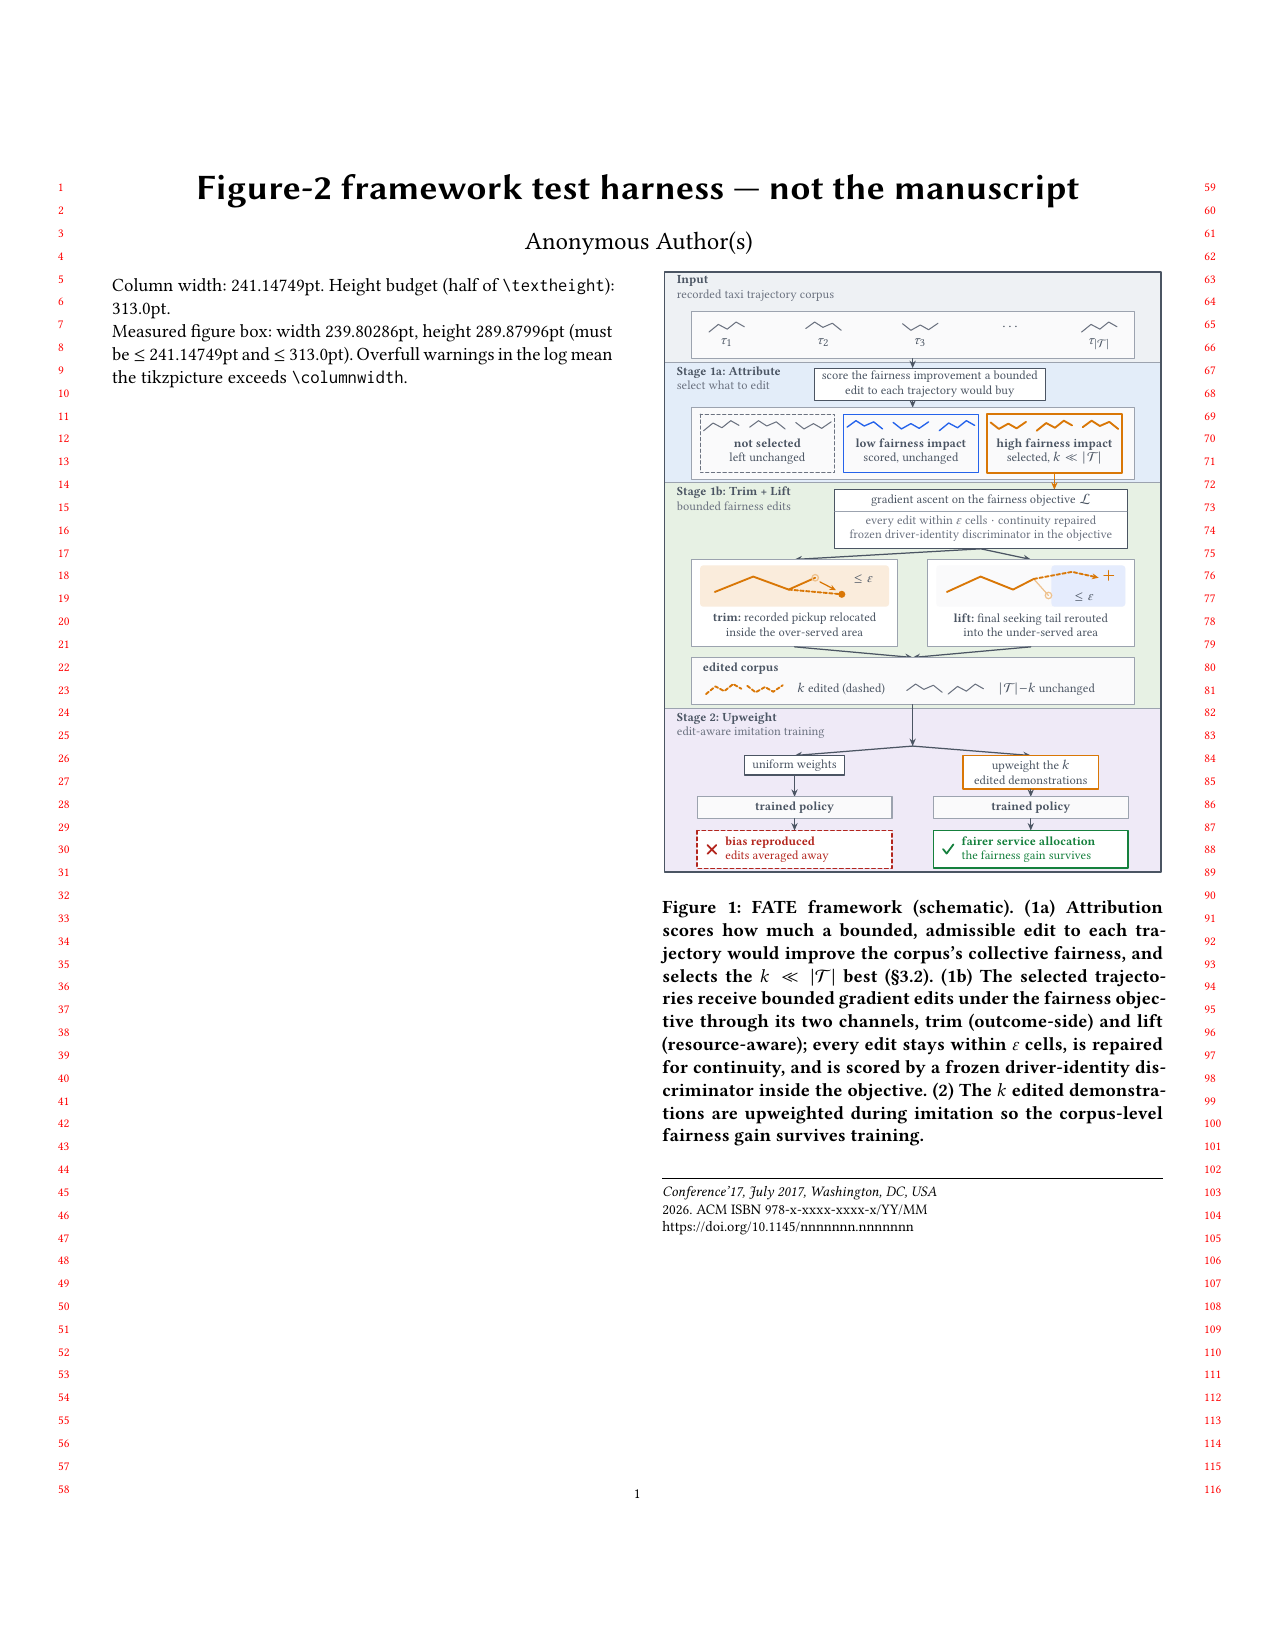
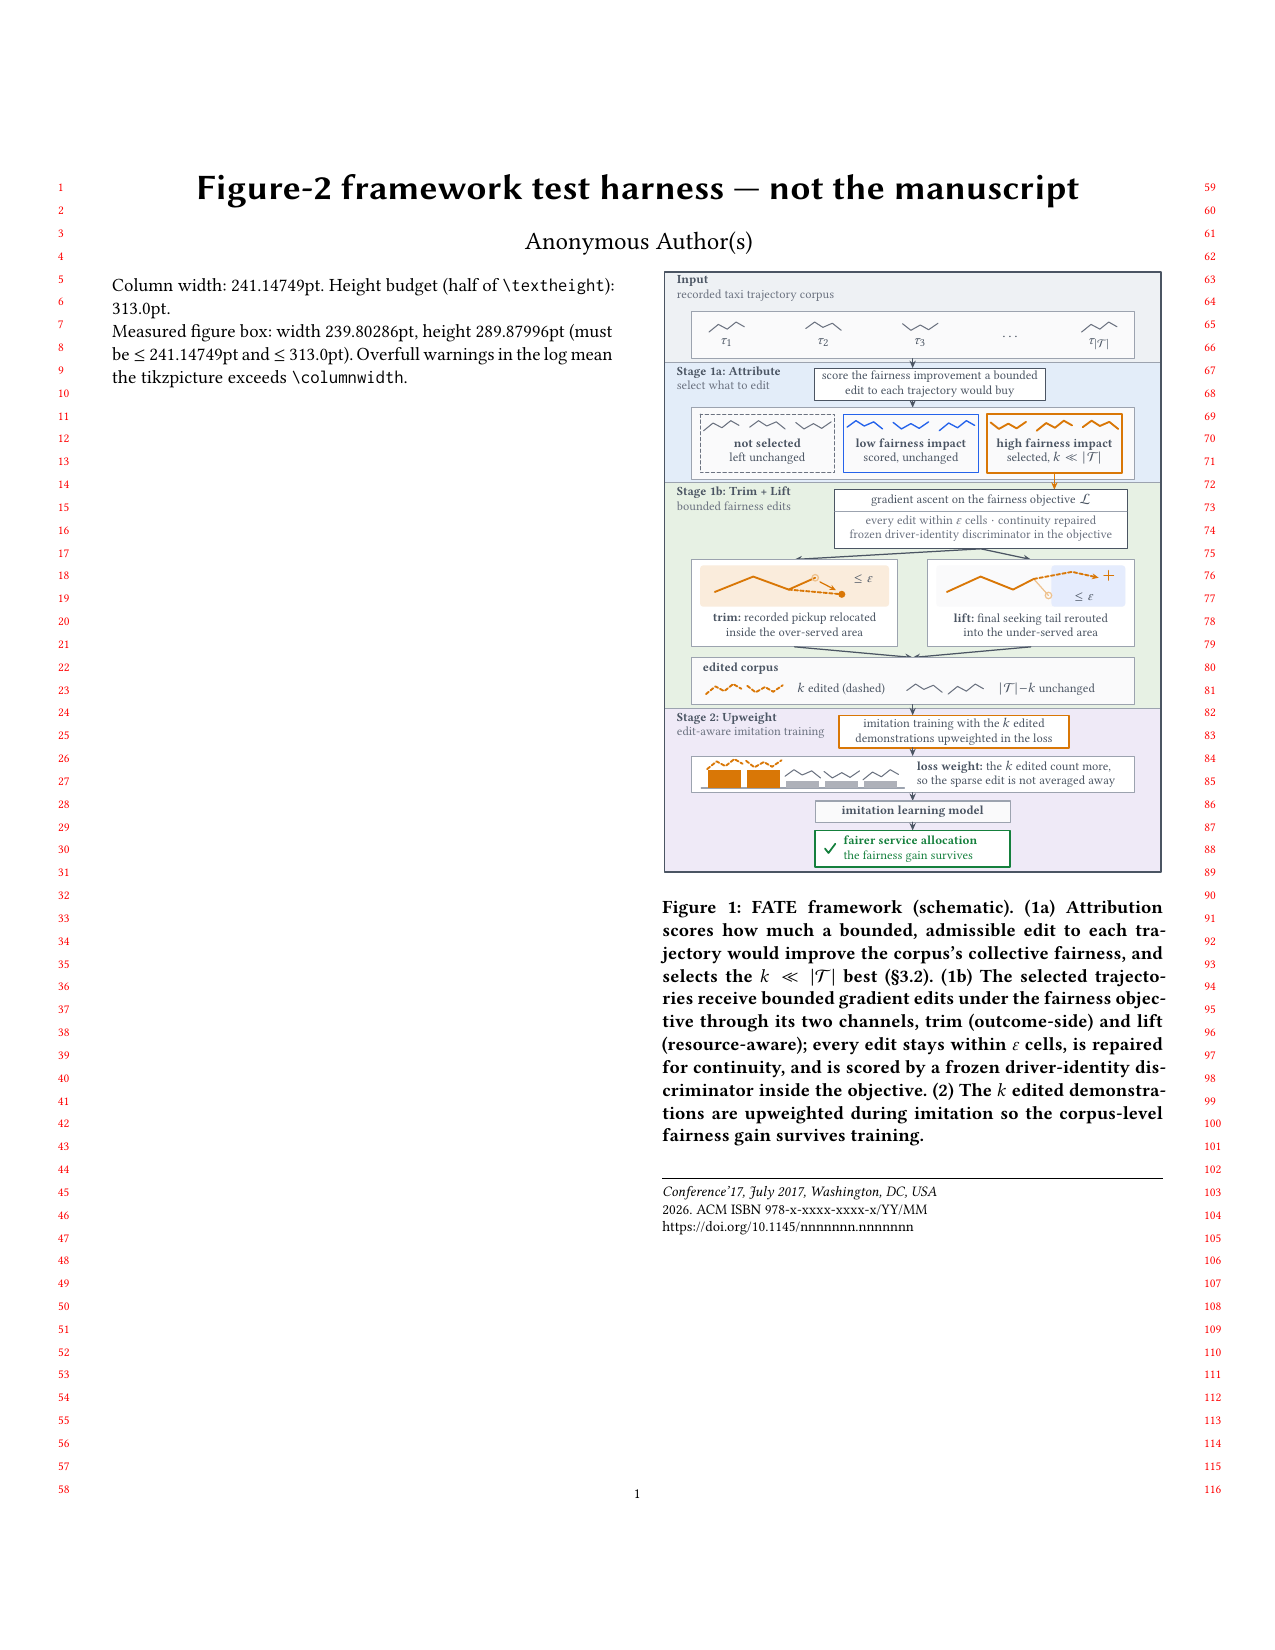
paper: Figure-2 Stage-2 redesign (other session) + Robert's read-aloud edits + two staleness repairs I found while verifying
Committing on Robert's request: his own edits, and the Figure-2 work from the
parallel session. Figure-1's changes were already committed by its own session
at 5c49ecc, so nothing of its was pending — but that commit left a stale
\Description behind, repaired here (below).

ROBERT'S EDITS
- §2 C3: he found a FOURTH instance of the swallowed-sentence defect I
  introduced at 6d03679's siblings — my discretionary-hyphen comment had eaten
  "Equal service is not the target: a", so C3 rendered as "fairness).business
  district should ...". His fix restores it and drops the % after \textbf{} so
  the line break supplies the lost space. Verified in the PDF: the challenge now
  reads correctly end to end. My detector run is clean again (only "n.s.\ at
  w20" remains, a real abbreviation).
- §4.6: the run-in head is now "The supply channel replicates; the demand
  channel dominates the ratio", replacing "... the ratio tension is an
  accounting artifact". Better for the reason I argued: the old head asserted a
  verdict the paragraph then has to earn, and "artifact" understated the
  paper's own subtler reading, which treats the net-negative as a predicted
  demand-endogeneity finding rather than an accounting quirk.
- §4.6 caveats: "proxies the migrant axis" -> "the migrant axis of Shenzhen",
  which is what ACS foreign-born share actually stands in for.
- §3: the Fig-2 caption comment and the \Description rewritten for the new
  Stage 2 (weight chip, single outcome box).
[…]

Changed region(s): [[0.5506, 0.4327, 0.8871, 0.5255]]

diff --git a/paper/figures/figure-2/framework.tex b/paper/figures/figure-2/framework.tex
@@ -17,9 +17,12 @@
 % operation labels, terminal contrast boxes.
 %
 % GEOMETRY (all in cm; y grows DOWNWARD as negative):
-%   canvas 8.40 x 10.54 cm; MEASURED box (framework-test.tex prints it):
-%   239.80pt wide x 300.69pt tall. Gates: \columnwidth (acmart sigconf) =
-%   241.15pt -> 1.3pt to spare; 0.5\textheight = 313.0pt -> 12.3pt to spare.
+%   canvas 8.40 x 10.16 cm; MEASURED box (framework-test.tex prints it):
+%   239.80pt wide x 289.88pt tall (re-measured 2026-07-25 after the Stage-2
+%   fork removal; the "8.40 x 10.54 / 300.69pt" previously recorded here was
+%   stale from before an earlier canvas shrink). Gates: \columnwidth (acmart
+%   sigconf) = 241.15pt -> 1.3pt to spare; 0.5\textheight = 313.0pt ->
+%   23.1pt to spare.
 %   Keep any edit inside those two numbers, and keep the last line of this
 %   file ending in a comment character (a bare newline would leak an
 %   interword space when the file is \input mid-paragraph).
@@ -49,9 +52,10 @@
 %   over-served area, fwlow!12 = under-served area. Saturated strokes are
 %   objects; that is what keeps the pale under-served tint from being read
 %   as the cobalt "low impact" trajectories one band above.
-%   fwneg/fwpos are used ONLY in the two terminal verdict boxes (the
-%   exemplar's red "Wrong Label!" / green "Correct Label!" pair); the x/check
-%   marks and the border dashing carry the verdict without color.
+%   fwpos is used ONLY in the terminal outcome box (the exemplar's green
+%   "Correct Label!" analogue); the check mark carries the verdict without
+%   color. (fwneg + the xmark pic left with the uniform-weights fork,
+%   removed 2026-07-25 -- see the Stage-2 comment block.)
 %
 % VOCABULARY GUARDS (binding, per the spec's accuracy constraints):
 %   - no "attack" / "perturbation" / "z-score" anywhere;
@@ -72,7 +76,6 @@
 \definecolor{fwbandone}{HTML}{E3EDF9}% stage 1 band
 \definecolor{fwbandtwo}{HTML}{E7F1E4}% stage 2 band
 \definecolor{fwbandthree}{HTML}{EFEAF7}% stage 3 band
-\definecolor{fwneg}{HTML}{B3261E}%     terminal box: bias reproduced
 \definecolor{fwpos}{HTML}{15803D}%     terminal box: fairer allocation
 \begin{tikzpicture}[x=1cm, y=1cm, line cap=round, line join=round,
   font=\scriptsize, text=fwink, inner sep=1.2pt,
@@ -83,9 +86,7 @@
                     -- (0.60,0.03);},
   trajc/.pic={\draw (0,0.14) -- (0.14,0.03) -- (0.30,0.12) -- (0.44,0.04)
                     -- (0.60,0.15);},
-  % ---- terminal verdict marks (drawn, so no extra package is needed) ----
-  xmark/.pic={\draw[line width=0.85pt] (-0.075,-0.075) -- (0.075,0.075)
-                                       (-0.075,0.075) -- (0.075,-0.075);},
+  % ---- terminal verdict mark (drawn, so no extra package is needed) ----
   ckmark/.pic={\draw[line width=0.85pt] (-0.085,0.005) -- (-0.025,-0.070)
                                         -- (0.090,0.085);},
   % ---- trajectory styles (weight + dashing carry the groups) -----------
@@ -119,8 +120,8 @@
   \def\xL{0.45}          % inner left  margin for full-width boxes
   \def\xR{7.95}          % inner right margin for full-width boxes
   \def\spine{4.20}       % centre flow spine
-  \def\bL{2.20}          % left  branch axis (trim / uniform weights)
-  \def\bR{6.20}          % right branch axis (lift / upweighted)
+  \def\bL{2.20}          % left  branch axis (trim panel, Stage 1b)
+  \def\bR{6.20}          % right branch axis (lift panel, Stage 1b)
 
   % =====================================================================
   % Bands + outer canvas (flat fills, exemplar style)
@@ -144,7 +145,7 @@
   \pic[tnone] at (0.75,-1.02) {traja};
   \pic[tnone] at (2.39,-1.02) {trajb};
   \pic[tnone] at (4.03,-1.02) {trajc};
-  \node at (5.85,-0.93) {$\ldots$};
+  \node at (5.85,-1.10) {$\ldots$};
   \pic[tnone] at (7.06,-1.02) {traja};
   \node[anchor=north] at (1.05,-1.08) {$\tau_1$};
   \node[anchor=north] at (2.69,-1.08) {$\tau_2$};
@@ -257,36 +258,51 @@
   % =====================================================================
   % STAGE 2 -- Upweight: the sparse edits must survive training
   % =====================================================================
+  % 2026-07-25 (Robert): the uniform-weights fork (uniform weights ->
+  % trained policy -> bias reproduced) is REMOVED -- it was the experimental
+  % control, not part of the proposed method, so the band now shows only
+  % FATE's own path, centred on the spine. The averaged-away null the red
+  % terminal carried survives as the weight chip's second line, which keeps
+  % the 2026-07-24 caption decision (that clause was dropped from the caption
+  % BECAUSE the figure states it) sound. The freed width pays for the weight
+  % chip: a trim/lift-style visual in which each demonstration stands on a
+  % bar whose height is its loss weight -- edited (dashed amber) demos ride
+  % tall amber bars, unchanged (gray) demos sit on short gray ones. Bar
+  % HEIGHT carries the distinction, so the chip is grayscale-safe, and no
+  % weight symbol is introduced (\S3.4 names none; symbol guard holds).
   \node[ttl] at (0.20,-7.45)
     {\textbf{Stage 2: Upweight}\\
      \textcolor{fwgray}{edit-aware imitation training}};
-  \draw[flow] (\spine,-7.33) -- (\spine,-8.03);
-  \draw[flow] (\spine,-8.03) -- (\bL,-8.19);
-  \draw[flow] (\spine,-8.03) -- (\bR,-8.19);
-  % weighting regimes (the only difference between the two branches)
-  \draw[opbox] (1.35,-8.19) rectangle (3.05,-8.52);
-  \node at (\bL,-8.355) {uniform weights};
-  \draw[opbox, draw=fwsel, line width=0.7pt] (5.05,-8.19) rectangle (7.35,-8.76);
-  \node[align=center] at (\bR,-8.475)
-    {upweight the $k$\\edited demonstrations};
-  \draw[flow] (\bL,-8.52) -- (\bL,-8.89);
-  \draw[flow] (\bR,-8.76) -- (\bR,-8.89);
-  \draw[data] (0.55,-8.89) rectangle (3.85,-9.26);
-  \node at (\bL,-9.075) {\textbf{trained policy}};
-  \draw[data] (4.55,-8.89) rectangle (7.85,-9.26);
-  \node at (\bR,-9.075) {\textbf{trained policy}};
-  \draw[flow] (\bL,-9.26) -- (\bL,-9.46);
-  \draw[flow] (\bR,-9.26) -- (\bR,-9.46);
-  % terminal contrast pair (mirrors the exemplar's wrong/correct boxes;
-  % dashed vs solid border keeps the contrast in grayscale)
-  \draw[fill=white, draw=fwneg, line width=0.6pt,
-        dash pattern=on 1.8pt off 1.3pt] (0.55,-9.46) rectangle (3.85,-10.1);
-  \pic[fwneg] at (0.80,-9.78) {xmark};
-  \node[anchor=west, align=left, text=fwneg] at (0.98,-9.78)
-    {\textbf{bias reproduced}\\edits averaged away};
+  \draw[flow] (\spine,-7.33) -- (\spine,-7.51);
+  % op-box sits right of the title block (x > 2.9 rule), like Stage 1a's
+  \draw[opbox, draw=fwsel, line width=0.7pt] (2.95,-7.51) rectangle (6.85,-8.06);
+  \node[align=center] at (4.90,-7.785)
+    {imitation training with the $k$ edited\\demonstrations upweighted in the loss};
+  \draw[flow] (\spine,-8.06) -- (\spine,-8.20);
+  % --- weight chip: per-demonstration loss weight drawn as support bars ---
+  \draw[panel] (\xL,-8.20) rectangle (\xR,-8.82);
+  \draw[fwrule, line width=0.5pt] (0.62,-8.74) -- (4.06,-8.74);
+  \fill[fwsel] (0.74,-8.74) rectangle (1.30,-8.44);
+  \pic[tedit] at (0.72,-8.42) {traja};
+  \fill[fwsel] (1.40,-8.74) rectangle (1.96,-8.44);
+  \pic[tedit] at (1.38,-8.42) {trajc};
+  \fill[fwgray!55] (2.06,-8.74) rectangle (2.62,-8.62);
+  \pic[tnone] at (2.04,-8.60) {trajb};
+  \fill[fwgray!55] (2.72,-8.74) rectangle (3.28,-8.62);
+  \pic[tnone] at (2.70,-8.60) {trajc};
+  \fill[fwgray!55] (3.38,-8.74) rectangle (3.94,-8.62);
+  \pic[tnone] at (3.36,-8.60) {traja};
+  \node[anchor=west, align=left] at (4.22,-8.51)
+    {\textbf{loss weight:} the $k$ edited count more,\\
+     so the sparse edit is not averaged away};
+  \draw[flow] (\spine,-8.82) -- (\spine,-8.96);
+  \draw[data] (2.55,-8.96) rectangle (5.85,-9.32);
+  \node at (\spine,-9.14) {\textbf{imitation learning model}};
+  \draw[flow] (\spine,-9.32) -- (\spine,-9.46);
+  % terminal outcome box (the exemplar's green "Correct Label!" analogue)
   \draw[fill=white, draw=fwpos, line width=0.8pt]
-    (4.55,-9.46) rectangle (7.85,-10.1);
-  \pic[fwpos] at (4.80,-9.78) {ckmark};
-  \node[anchor=west, align=left, text=fwpos] at (4.98,-9.78)
+    (2.55,-9.46) rectangle (5.85,-10.08);
+  \pic[fwpos] at (2.80,-9.77) {ckmark};
+  \node[anchor=west, align=left, text=fwpos] at (2.98,-9.77)
     {\textbf{fairer service allocation}\\the fairness gain survives};
 \end{tikzpicture}%

diff --git a/paper/sections/01_introduction.tex b/paper/sections/01_introduction.tex
@@ -102,9 +102,15 @@ HSTD to downstream applications \cite{ensign2018,lumisaac2016}.
   % It is a SCHEMATIC: icons, street lattice and trajectories are stylized, no
   % real trajectory or measured value is plotted, and the prose therefore says
   % "sketched in" rather than "shows". Fig-1 and Fig-2 now share one palette and
-  % one edit vocabulary (amber = the edit, faint open circle = vacated original,
-  % dashed amber + arrowhead = the rerouted tail); the raster/TikZ style mismatch
-  % the meeting tolerated is gone. This figure is the WHY; fig:overview is the HOW.
+  % one edit vocabulary (amber = the edit; dashed amber + arrowhead = the
+  % rerouted tail); the raster/TikZ style mismatch the meeting tolerated is gone.
+  % This figure is the WHY; fig:overview is the HOW.
+  % 2026-07-25: the fig-1 session's v6.1 (5c49ecc) turned the vacated-taxi ghost
+  % circle and the "+" added-presence mark OFF by default, so the \Description
+  % below no longer claims a plus sign and this comment no longer lists the open
+  % circle in the shared vocabulary. Both survive behind \showVacatedGhost /
+  % \showAddedMark. The rerouted line still begins at the vacated position, so
+  % that clause of the \Description stands.
   \input{figures/figure-1/figure-1-teaser}
   \caption{Collective service disparity emerges from the aggregation of local
   trajectories (left). FATE edits a small set of influential trajectories to
@@ -119,10 +125,9 @@ HSTD to downstream applications \cite{ensign2018,lumisaac2016}.
   High. A thick arrow labeled FATE leads to the right map, titled FATE for
   Fairer Service. There the advantaged half holds four taxis and the same
   three passengers, and the disadvantaged half holds three taxis and the same
-  four passengers: a dashed amber line starts at the vacated position of the
-  taxi that left the advantaged half, crosses the district boundary, and ends
-  with an arrowhead at the arriving amber taxi, beside a small plus sign
-  marking added service presence. The passenger nearest that taxi is drawn in
+  four passengers: a dashed amber line starts where the taxi that left the
+  advantaged half had been, crosses the district boundary, and ends
+  with an arrowhead at the arriving amber taxi. The passenger nearest that taxi is drawn in
   amber to mark the passenger who now gets served, and passenger counts are
   unchanged on both sides. The two halves are labeled Service: Moderate,
   Demand: Similar and Service: Increased, Demand: Similar. A legend below

diff --git a/paper/sections/03_methodology.tex b/paper/sections/03_methodology.tex
@@ -41,8 +41,13 @@ challenge of \S\ref{sec:overview}, named in its opening sentence.
   % parenthetical "(the attribution mechanisms are detailed in §3.2)" — the
   % \S\ref survives as a bare pointer; the trim/lift glosses, which the figure's
   % own two edit-glyph labels already carry verbatim; and the closing "at uniform
-  % weights it is averaged away", which the figure's terminal contrast box states
-  % ("bias reproduced / edits averaged away"). No claim removed.
+  % weights it is averaged away", which the figure states. (2026-07-25, Robert:
+  % the figure's uniform-weights fork and its "bias reproduced / edits averaged
+  % away" terminal are REMOVED — the fork was the experimental control, not the
+  % method; see the Stage-2 comment block in figures/figure-2/framework.tex. The
+  % averaged-away claim now lives in the figure's loss-weight chip, "so the
+  % sparse edit is not averaged away", so the caption decision above still
+  % holds.) No claim removed.
   \caption{FATE framework (schematic). (1a) Attribution scores how much a
   bounded, admissible edit to each trajectory would improve the corpus's
   collective fairness, and selects the $k \ll |\mathcal{T}|$ best
@@ -68,10 +73,11 @@ challenge of \S\ref{sec:overview}, named in its opening sentence.
   trim that relocates a recorded pickup within an over-served area, and a lift
   that reroutes a trajectory's final seeking states into an under-served area,
   each edit bounded to epsilon cells and repaired for continuity. Stage 2
-  trains a policy on the edited corpus by imitation with the edited
-  demonstrations upweighted, and ends in a contrast pair: under uniform
-  weights the bias is reproduced, and under upweighting the fairer service
-  allocation survives training.}
+  trains an imitation learning model on the edited corpus with the k edited
+  demonstrations upweighted in the loss, drawn as a weight chip in which each
+  demonstration stands on a bar whose height is its loss weight, the edited
+  demonstrations on tall bars and the unchanged ones on short bars, and ends
+  in a single outcome box: the fairer service allocation survives training.}
   % 2026-07-25: while renaming the stages here, the \Description was also found
   % still carrying the D3 phrasing that review finding #2 repaired in the caption
   % and the figure's op-box — "scores each trajectory's CONTRIBUTION to the

diff --git a/paper/sections/02_overview.tex b/paper/sections/02_overview.tex
@@ -117,12 +117,18 @@ fairness of the whole corpus (\S\ref{sec:editor}).
 reads as its original driver. Each edit is therefore bounded to a small
 neighborhood of the recorded trajectory and scored by a frozen driver-identity
 discriminator inside the editing objective (\S\ref{sec:phys-validity}).
-\textbf{C3 (de\-mand-ad\-just\-ed fairness).}%
+\textbf{C3 (de\-mand-ad\-just\-ed fairness).}
 % 2026-07-25: discretionary hyphens added to the bold compound. Without them
 % "demand-adjusted" is unbreakable and the challenge block overran the column by
 % 6.57pt (lint gate is >5pt). Same house pattern as "demo\-graph\-ic-parity" and
-% "dis\-pa\-rate-impact" elsewhere; the rendered word is unchanged. Equal service is not the target: a 
-business district should receive more service than a quiet residential block. 
+% "dis\-pa\-rate-impact" elsewhere; the rendered word is unchanged.
+% 2026-07-25 (later, found during the fig-2 fork-removal pass): the comment above
+% had swallowed the sentence opening "Equal service is not the target: a" (same
+% defect class as commit 6d03679), so C3 rendered as "fairness).business district
+% should...". Restored below; the % after \textbf{} is dropped so the line break
+% supplies the space the swallowed text lost.
+Equal service is not the target: a
+business district should receive more service than a quiet residential block.
 The objective must score only the service variation demand leaves
 unexplained (\S\ref{sec:objective}).
 \textbf{C4 (level up, not down).} Measured fairness can improve while the

diff --git a/paper/sections/04_experiments.tex b/paper/sections/04_experiments.tex
@@ -478,9 +478,8 @@ grouping dependence we state rather than hide (the SF sample is 12 drivers;
 per-convention values in Appendix~\ref{app:results}).
 % src: PAPER/supply-lift/data/a10/sf12_a10_metrics.json + sf12_a10_external_fairness.json
 
-\textbf{The supply channel replicates; the ratio tension is an accounting
-artifact.} The supply channel is again positive
-and
+\textbf{The supply channel replicates; the demand channel dominates 
+the ratio.} The supply channel is again positive and
 significant under \emph{both} conventions: frac\-tional-pres\-ence
 $+0.0209$ (CI $[+0.0122,$ $+0.0300]$) and dis\-tinct-taxi $+0.1027$
 (CI $[+0.0872,$ $+0.1203]$), the largest distinct-taxi supply effect of
@@ -530,7 +529,7 @@ $F_{\mathrm{spatial}}$ propagates downstream on Shenzhen but \emph{not} here
 % "Data level" paragraph above, which already pointed at the same comparison.)
 
 \textbf{San Francisco caveats.} ACS foreign-born share proxies the migrant 
-axis; the 12-driver density-matched subsample is small; and 14.9\% of raw
+axis of Shenzhen; the 12-driver density-matched subsample is small; and 14.9\% of raw
 Cabspotting trajectories violate king-move adjacency at source (GPS gaps),
 so no corpus built from this data can be fully compliant. The standard we
 hold the editor to is therefore that its own edits introduce no violations

diff --git a/paper/restructure/figures/FIG2_FRAMEWORK_SPEC.md b/paper/restructure/figures/FIG2_FRAMEWORK_SPEC.md
@@ -118,3 +118,27 @@ Design notes:
 6. `\label{fig:overview}` is kept (current §3.4 opener and Fig-1 caption reference it).
 7. The retired 3-panel figure's source stays in `figures/figure-2/` (git history +
    possible case-study salvage per ADJ-1) but leaves main.tex.
+
+---
+
+## AMENDMENT 2026-07-25 (Robert) — Stage-2 uniform-weights fork removed
+
+The Stage-2 fork drawn in the ADOPTED layout above (uniform weights → trained
+policy → bias reproduced, beside the upweighted branch) is REMOVED from the
+rendered figure: it depicted the experimental control (the vanilla null of
+§3.4), not the proposed method. Stage 2 now shows the single FATE path,
+centred on the spine:
+
+    imitation-training op-box (amber) → loss-weight chip → "imitation
+    learning model" box (renamed from "trained policy") → green terminal
+    outcome box ("fairer service allocation / the fairness gain survives")
+
+The loss-weight chip is new (trim/lift-style visual detail, filling the freed
+width): each demonstration stands on a bar whose height is its loss weight —
+edited dashed-amber demos on tall amber bars, unchanged gray demos on short
+gray ones. No weight symbol is introduced (§3.4 names none; symbol guard
+holds). The averaged-away null moved from the deleted red terminal into the
+chip's label ("so the sparse edit is not averaged away"), so the 2026-07-24
+caption-tightening rationale still holds. The ASCII sketch and caption draft
+above predate this amendment; `figures/figure-2/framework.tex` is the source
+of truth.
